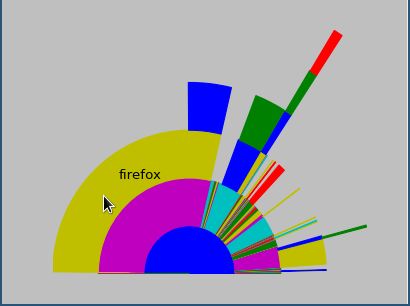
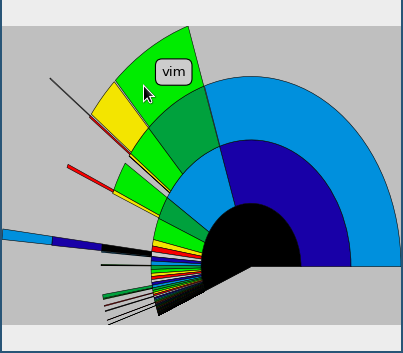
Modified colors, sizer, and chart layout
Made the colors nicer using matplotlib's colormaps

Aligned the chart in the middle of the window

Processes are now sorted by their memory usage (including that of their children) on the chart

Added a few extra comments

Added to todo

diff --git a/chart.py b/chart.py
@@ -3,10 +3,15 @@ import psutil
 import matplotlib.pyplot as plt
 from matplotlib.patches import Wedge
 import math
+from matplotlib import colors
+import matplotlib.cm as cmx
 
 
-# array of colors to color the wedges of the chart with
-colors = "bgrcmy"
+# globals for setting the colors in the chart
+NUM_COLORS = 8
+cm = plt.get_cmap('spectral')
+c_norm = colors.Normalize(vmin=0, vmax=NUM_COLORS - 1)
+scalar_map = cmx.ScalarMappable(norm=c_norm, cmap=cm)
 
 
 class ProcessWedge(Wedge):
@@ -115,20 +120,30 @@ def draw_proc(p, ax, start_angle, depth, colorindex, pmap, ptree,
     Bounds are in the form of (top, left, bottom, right)"""
     try:
         r = 0.1 * (depth + 1)
-        w_color = colors[colorindex]
+        w_color = scalar_map.to_rgba(colorindex)
         p_arc = get_mem_percent_including_children(p, pmap, ptree) / 100 * 360
         wedge = ProcessWedge(p.name, center, r, start_angle,
-                start_angle + p_arc, width=0.1, color=w_color)
+                start_angle + p_arc, width=0.1, facecolor=w_color,
+                linewidth=0.5, edgecolor=(0, 0, 0))
         ax.add_artist(wedge)
-
         c_colorindex = get_next_color_index(colorindex)
 
         bounds = wedge.get_bounds()
 
-        for c in ptree[p]:
+        # loop through each of the process's children and
+        # draw them in order of memory usage (including children)
+        # (this lets the user focus on the big processes more easily)
+        for c in sorted(ptree[p],
+                key=lambda c: get_mem_percent_including_children(c, pmap,
+                                                                 ptree),
+                reverse=True):
             c_wedge, c_bounds = draw_proc(c, ax, start_angle, depth + 1,
                     c_colorindex, pmap, ptree)
 
+            # if we successfully drew the child wedge and it returned a wedge,
+            # we can update the window's bounds and the start angle based on
+            # it
+            # also we can get a new color index
             if c_wedge:
                 bounds = update_bounds(bounds, c_bounds)
                 start_angle += c_wedge.arc
@@ -153,13 +168,12 @@ def update_bounds(bounds, bounds2):
     bottom = min(bottom, bottom2)
     return (top, left, bottom, right)
 
-
 def get_next_color_index(colorindex):
     """Gets the next index of a color in the colors array.
     If the index points to the last color in the array, it returns an index
     to the first element."""
     colorindex += 1
-    if colorindex >= len(colors):
+    if colorindex >= NUM_COLORS:
         colorindex = 0
     return colorindex
  

diff --git a/app.py b/app.py
@@ -21,9 +21,10 @@ class CanvasPanel(wx.Panel):
 
         # create the wx panel's sizer, add the canvas, and fit it
         self.sizer = wx.BoxSizer(wx.VERTICAL)
-        self.sizer.Add(self.canvas, 1, wx.LEFT | wx.TOP | wx.SHAPED)
+        # the canvas is shaped, because it looks weird when stretch
+        # (wedges lose proportionality and can't easily be compared)
+        self.sizer.Add(self.canvas, 1, wx.ALIGN_CENTER_HORIZONTAL | wx.ALIGN_CENTER_VERTICAL | wx.SHAPED)
         self.SetSizer(self.sizer)
-        self.Fit()
 
         self.text = None
         self.selected_wedge = None
